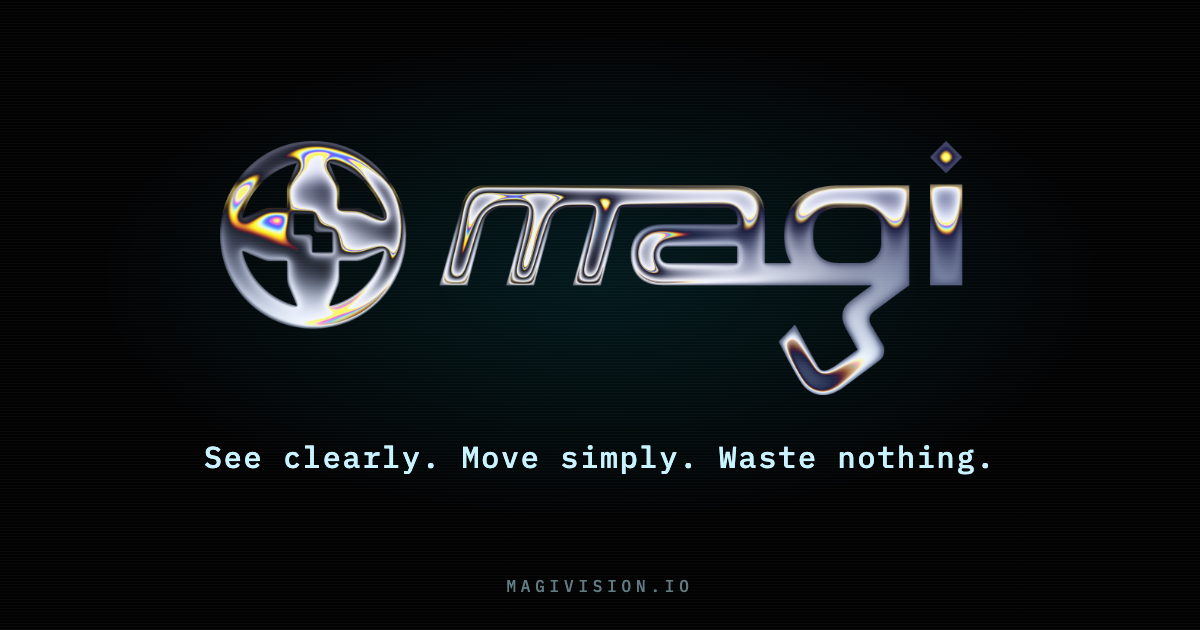
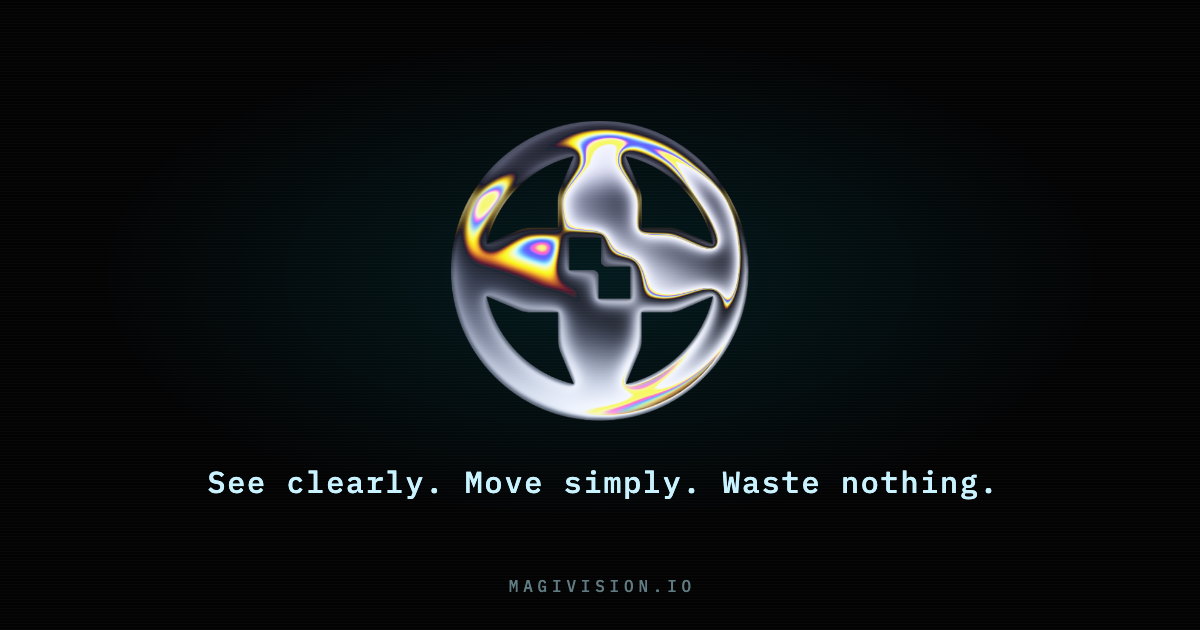
Link preview: pentacle only, centred, motto kept

Changed region(s): [[0.1542, 0.181, 0.8325, 0.7841], [0.185, 0.2111, 0.3392, 0.5429], [0.4008, 0.9048, 0.5858, 0.9349]]

diff --git a/shop.html b/shop.html
@@ -15,14 +15,14 @@
 <meta property="og:title" content="Magi Vision — Shop">
 <meta property="og:description" content="See clearly. Move simply. Waste nothing.">
 <meta property="og:url" content="https://magivision.io/shop">
-<meta property="og:image" content="https://magivision.io/assets/img/og/magi-og.png?v=20261124">
+<meta property="og:image" content="https://magivision.io/assets/img/og/magi-og.png?v=20261124b">
 <meta property="og:image:width" content="1200">
 <meta property="og:image:height" content="630">
-<meta property="og:image:alt" content="Liquid metal magi logo. See clearly. Move simply. Waste nothing.">
+<meta property="og:image:alt" content="Liquid metal magi pentacle. See clearly. Move simply. Waste nothing.">
 <meta name="twitter:card" content="summary_large_image">
 <meta name="twitter:title" content="Magi Vision — Shop">
 <meta name="twitter:description" content="See clearly. Move simply. Waste nothing.">
-<meta name="twitter:image" content="https://magivision.io/assets/img/og/magi-og.png?v=20261124">
+<meta name="twitter:image" content="https://magivision.io/assets/img/og/magi-og.png?v=20261124b">
 <link rel="preconnect" href="https://fonts.googleapis.com">
 <link rel="preconnect" href="https://fonts.gstatic.com" crossorigin>
 <link href="https://fonts.googleapis.com/css2?family=IBM+Plex+Mono:wght@400;500;600;700&display=swap" rel="stylesheet">

diff --git a/index.html b/index.html
@@ -16,14 +16,14 @@
 <meta property="og:title" content="Magi Vision">
 <meta property="og:description" content="See clearly. Move simply. Waste nothing.">
 <meta property="og:url" content="https://magivision.io/">
-<meta property="og:image" content="https://magivision.io/assets/img/og/magi-og.png?v=20261124">
+<meta property="og:image" content="https://magivision.io/assets/img/og/magi-og.png?v=20261124b">
 <meta property="og:image:width" content="1200">
 <meta property="og:image:height" content="630">
-<meta property="og:image:alt" content="Liquid metal magi logo. See clearly. Move simply. Waste nothing.">
+<meta property="og:image:alt" content="Liquid metal magi pentacle. See clearly. Move simply. Waste nothing.">
 <meta name="twitter:card" content="summary_large_image">
 <meta name="twitter:title" content="Magi Vision">
 <meta name="twitter:description" content="See clearly. Move simply. Waste nothing.">
-<meta name="twitter:image" content="https://magivision.io/assets/img/og/magi-og.png?v=20261124">
+<meta name="twitter:image" content="https://magivision.io/assets/img/og/magi-og.png?v=20261124b">
 <link rel="preconnect" href="https://fonts.googleapis.com">
 <link rel="preconnect" href="https://fonts.gstatic.com" crossorigin>
 <link href="https://fonts.googleapis.com/css2?family=IBM+Plex+Mono:wght@400;500;600;700&display=swap" rel="stylesheet">
